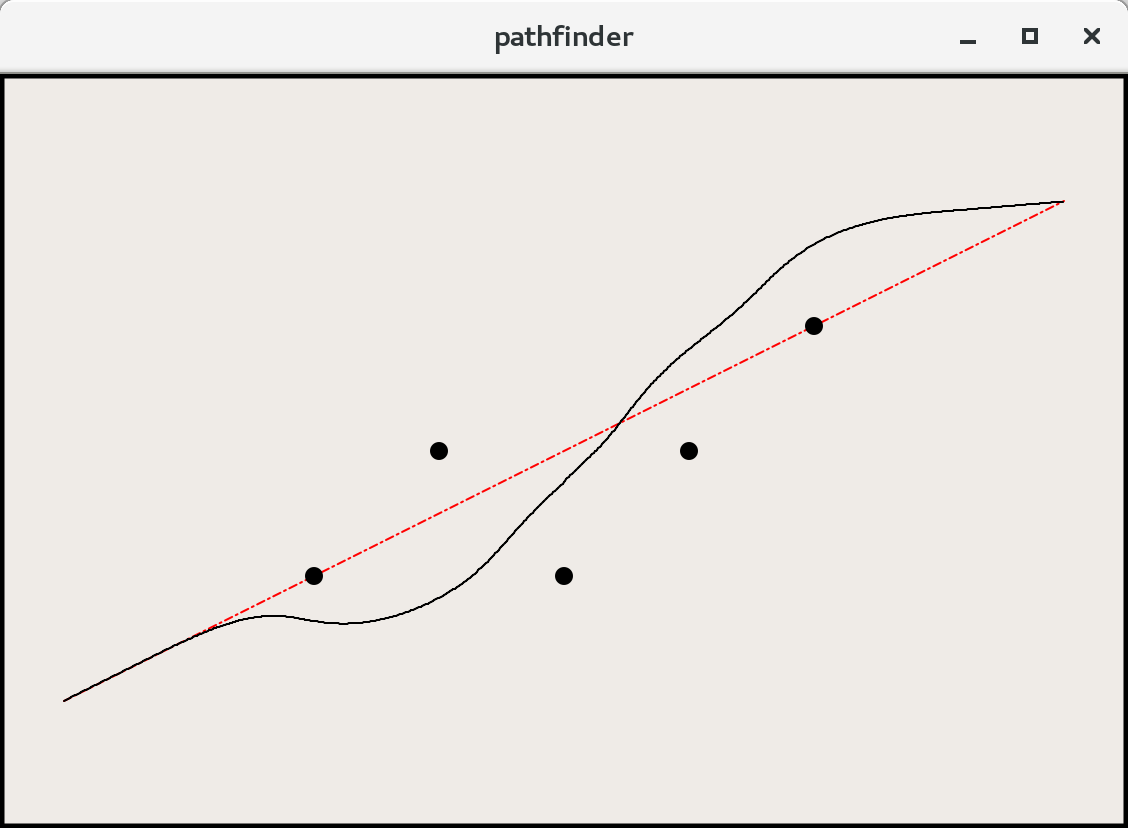
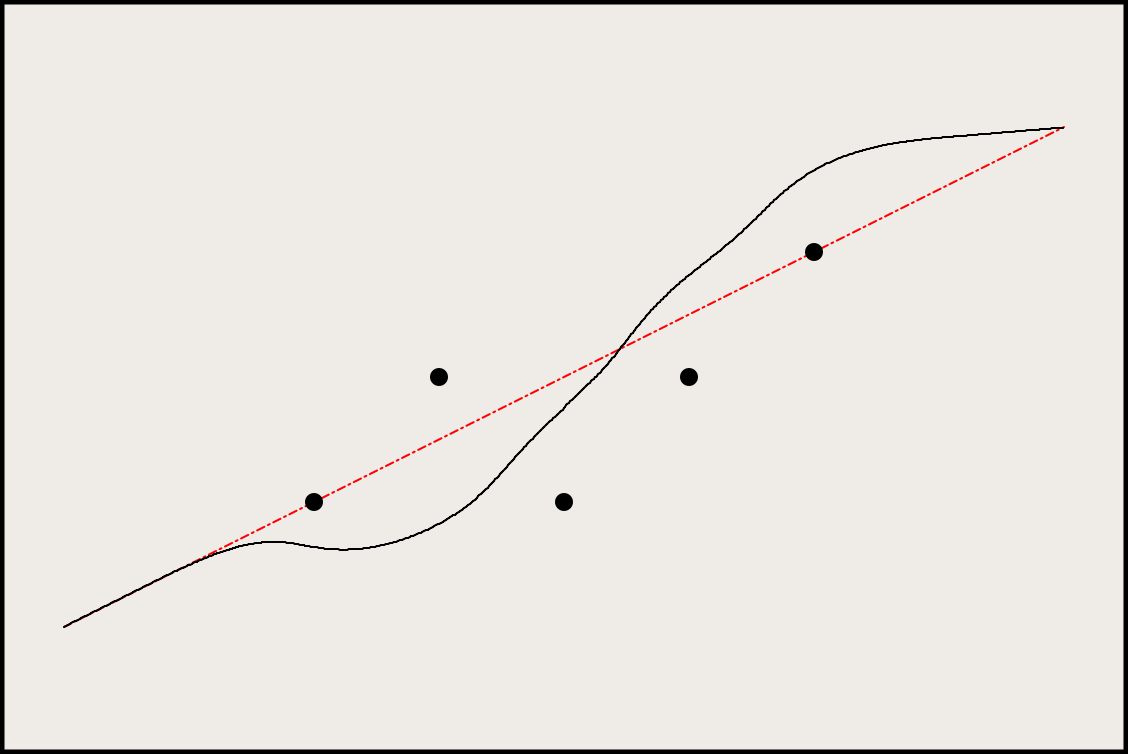
update main.cc and upload new screenshot

diff --git a/main.cc b/main.cc
@@ -24,7 +24,7 @@ int main(int argc, char *argv[])
    p.setRenderHint(QPainter::Antialiasing);
 
    //draw boundaries
-   p.setPen(QPen(Qt::black, 8, Qt::SolidLine, Qt::RoundCap));
+   p.setPen(QPen(Qt::black, 5, Qt::SolidLine, Qt::SquareCap));
    p.drawLine(cx2qtc(4500), cy2qtc(3000), cx2qtc(4500), cy2qtc(-3000));
    p.drawLine(cx2qtc(-4500), cy2qtc(3000), cx2qtc(4500), cy2qtc(3000));
    p.drawLine(cx2qtc(-4500), cy2qtc(3000), cx2qtc(-4500), cy2qtc(-3000));
